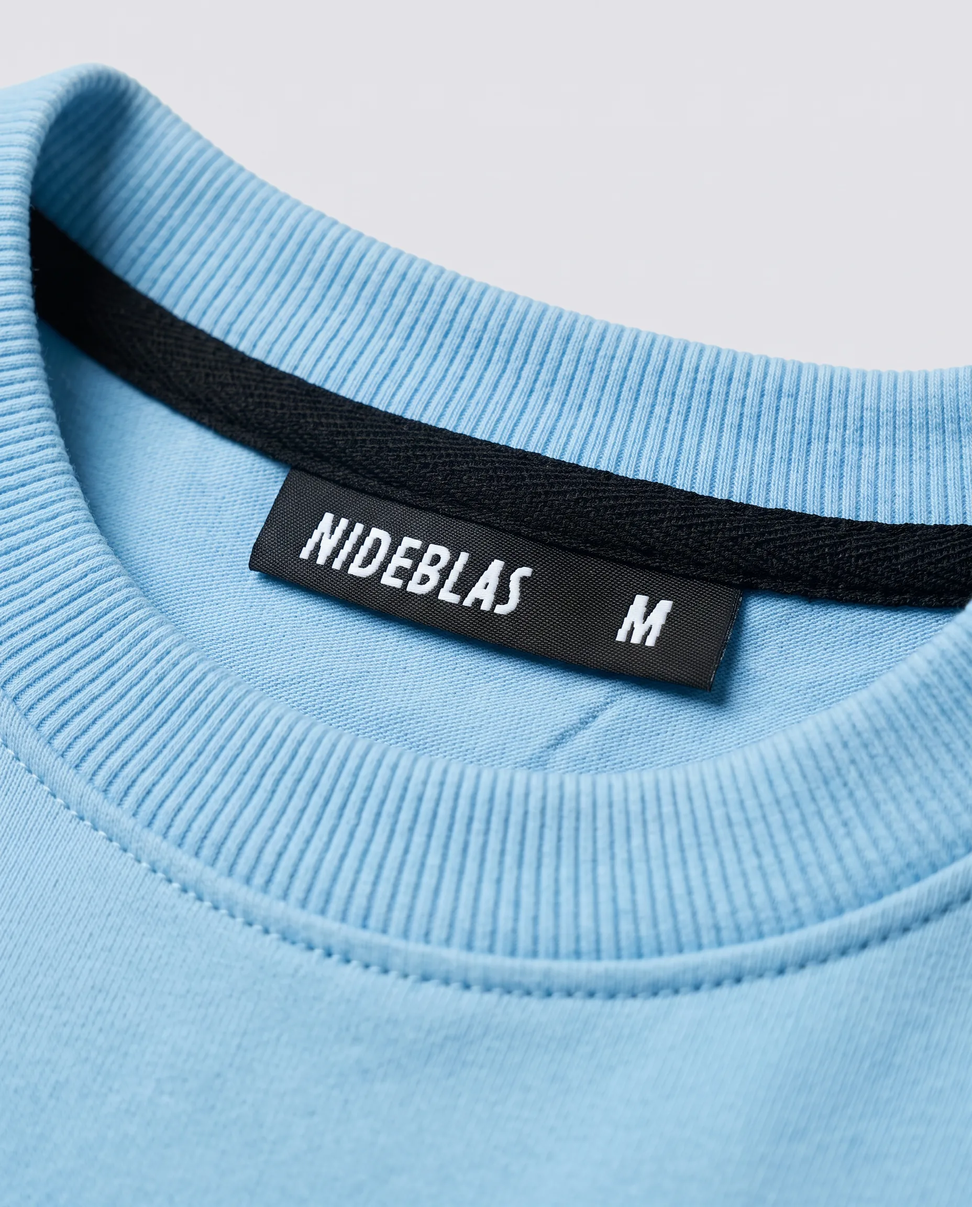
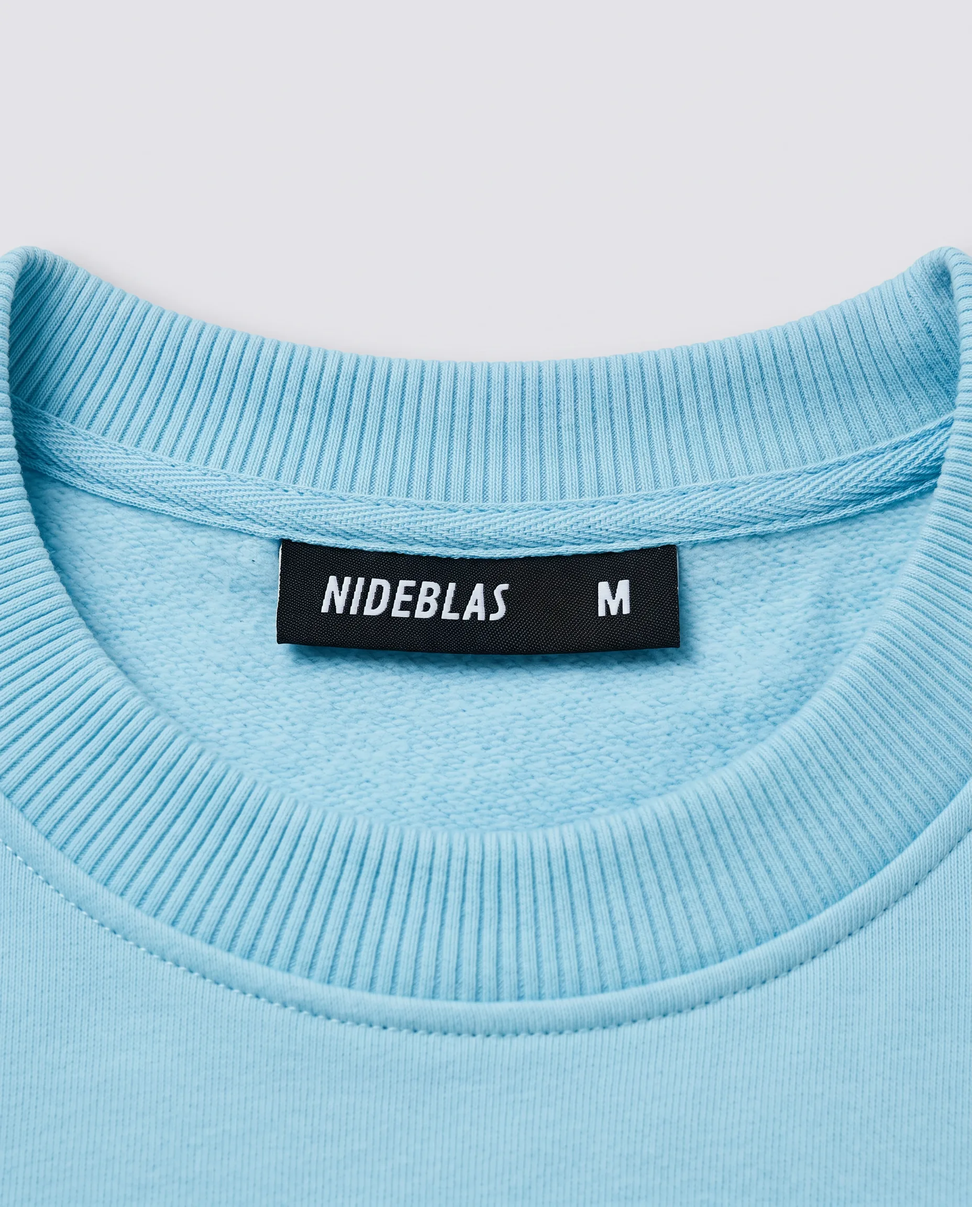
Fix sweatshirt collars and add SW-04, TS-10, SP-11, SP-12
- Sweatshirts regenerated with thick rib collar, no black tape, label sewn on body
- Sport tees with plain bound neck, repeating NIDEBLAS tape and printed label
- Carbono and navy-teal sweatshirt series added; all 2K, size M, labels verified

diff --git a/NDB_KIT_MAESTRO.md b/NDB_KIT_MAESTRO.md
@@ -566,3 +566,10 @@ Revisar antes de producir contenido masivo. Lo marcado ⚠ afecta al realismo si
 
 ## Conflictos techpack vs. foto real (resueltos a favor de la foto)
 Hilo azul marino (no cobalto) en TS-05/06, flock en sudaderas, deportiva hombre mint, deportiva mujer lavanda, TS-13 azul rey sin lámina.
+
+## Pendientes tras la corrección de cuellos (31/10)
+1. **Espalda de las deportivas:** el techpack de SP-11 indica un transfer trasero a 2 cm del cuello, pero no hay foto de la espalda ni se sabe qué es. Se generó la espalda lisa. Falta foto trasera real.
+2. **SP-11 (mujer):** posición del logo (3 cm bajo el cuello según el techpack) no verificada con foto real; en la imagen queda algo más baja.
+3. **Flatlay de sudaderas:** los brazos salen algo flexionados en SW-01 y SW-03. Si se quiere recto, repetir con "arms straight along the body".
+4. **Sudadera marino (SW-04):** la etiqueta de cuello es la de las otras sudaderas; falta foto real de esa prenda para confirmar color del hilo y bordado trasero.
+5. **TS-10 Carbono:** el detalle de estampado sale inclinado; repetir con "print straight, horizontal" si se quiere más limpio.

diff --git a/ndb-garments/references/open-questions.md b/ndb-garments/references/open-questions.md
@@ -24,3 +24,10 @@ Revisar antes de producir contenido masivo. Lo marcado ⚠ afecta al realismo si
 
 ## Conflictos techpack vs. foto real (resueltos a favor de la foto)
 Hilo azul marino (no cobalto) en TS-05/06, flock en sudaderas, deportiva hombre mint, deportiva mujer lavanda, TS-13 azul rey sin lámina.
+
+## Pendientes tras la corrección de cuellos (31/10)
+1. **Espalda de las deportivas:** el techpack de SP-11 indica un transfer trasero a 2 cm del cuello, pero no hay foto de la espalda ni se sabe qué es. Se generó la espalda lisa. Falta foto trasera real.
+2. **SP-11 (mujer):** posición del logo (3 cm bajo el cuello según el techpack) no verificada con foto real; en la imagen queda algo más baja.
+3. **Flatlay de sudaderas:** los brazos salen algo flexionados en SW-01 y SW-03. Si se quiere recto, repetir con "arms straight along the body".
+4. **Sudadera marino (SW-04):** la etiqueta de cuello es la de las otras sudaderas; falta foto real de esa prenda para confirmar color del hilo y bordado trasero.
+5. **TS-10 Carbono:** el detalle de estampado sale inclinado; repetir con "print straight, horizontal" si se quiere más limpio.
